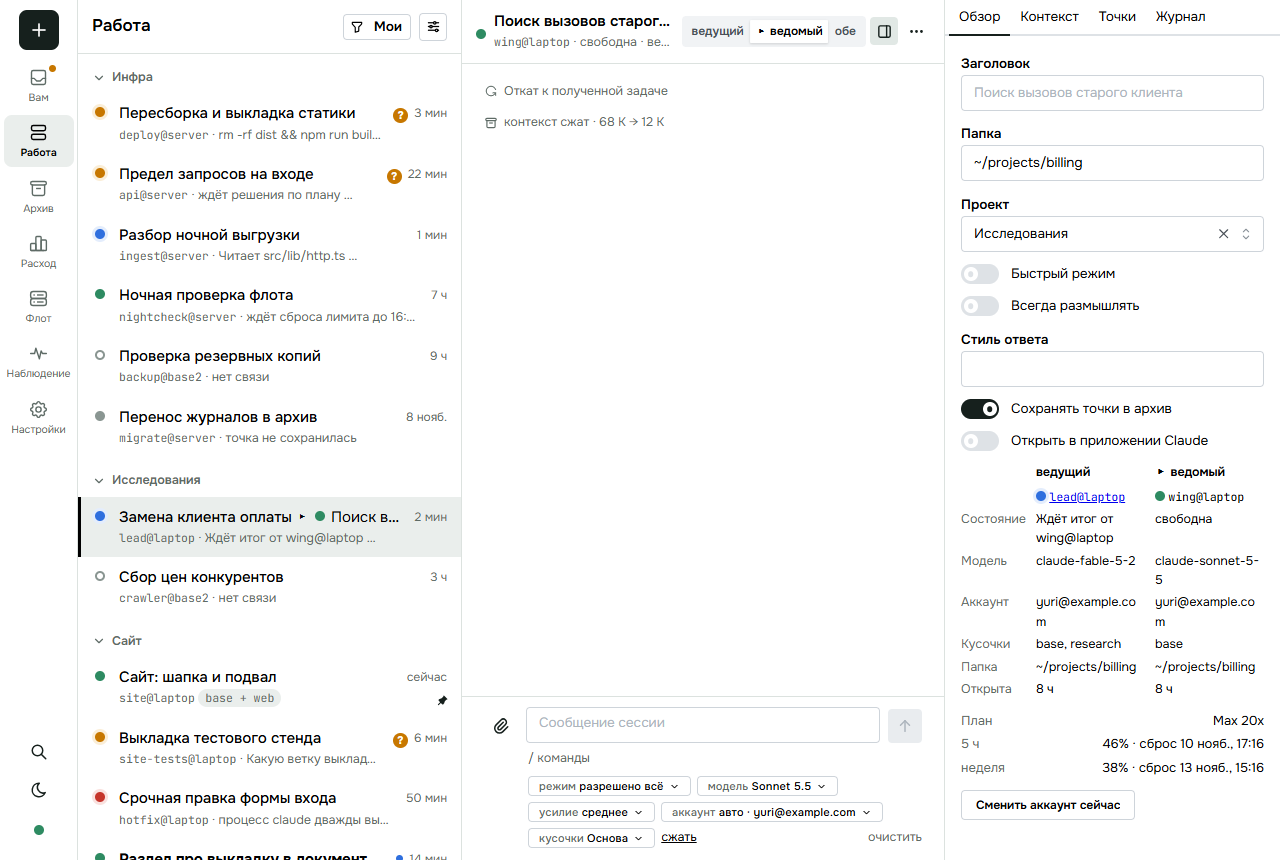
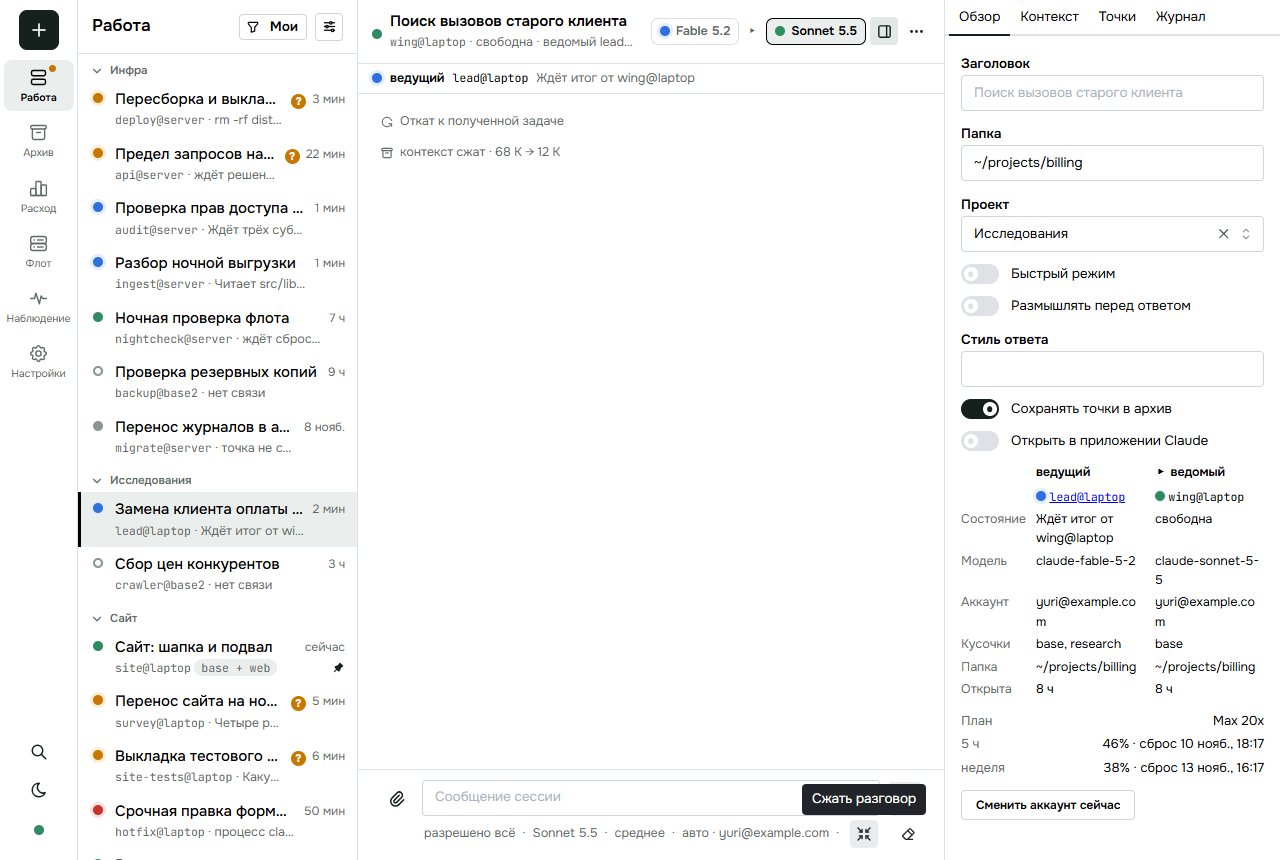
Дизайн «Откат и ведомый»: правки по комментариям к прототипу — вопросы карточками ленты, ряд под полем, «Вам» убран, «Идут сейчас», пара как в v1

diff --git a/docs/designs/v2-rewind/index.html b/docs/designs/v2-rewind/index.html
@@ -4,14 +4,14 @@
 <style>
 :root {
   --bg: #f6f5f1; --card: #ffffff; --fg: #1c211f; --muted: #66706b; --line: #d9d8d0; --soft: #eceae3;
-  --accent: #1f7a63; --accent-soft: #dcefe8; --new: #b8590f; --new-soft: #fbe9d7; --bad: #b3362b; --bad-soft: #f7e1de; --code: #f0eee7;
+  --accent: #1f7a63; --accent-soft: #dcefe8; --new: #b8590f; --new-soft: #fbe9d7; --bad: #b3362b; --bad-soft: #f7e1de; --code: #f0eee7; --chg: #fff3b0;
 }
 @media (prefers-color-scheme: dark) { :root:not([data-theme="light"]) {
   --bg: #151917; --card: #1d2320; --fg: #e8ece9; --muted: #98a39d; --line: #343c38; --soft: #252c28;
-  --accent: #5fc3a6; --accent-soft: #1d3a31; --new: #f0a25c; --new-soft: #40291a; --bad: #ef8a80; --bad-soft: #43221f; --code: #232a26; color-scheme: dark } }
+  --accent: #5fc3a6; --accent-soft: #1d3a31; --new: #f0a25c; --new-soft: #40291a; --bad: #ef8a80; --bad-soft: #43221f; --code: #232a26; --chg: #4a4416; color-scheme: dark } }
 :root[data-theme="dark"] {
   --bg: #151917; --card: #1d2320; --fg: #e8ece9; --muted: #98a39d; --line: #343c38; --soft: #252c28;
-  --accent: #5fc3a6; --accent-soft: #1d3a31; --new: #f0a25c; --new-soft: #40291a; --bad: #ef8a80; --bad-soft: #43221f; --code: #232a26; color-scheme: dark }
+  --accent: #5fc3a6; --accent-soft: #1d3a31; --new: #f0a25c; --new-soft: #40291a; --bad: #ef8a80; --bad-soft: #43221f; --code: #232a26; --chg: #4a4416; color-scheme: dark }
 body { background: var(--bg); color: var(--fg); font: 15px/1.5 Inter, system-ui, sans-serif; padding-left: max(16px, env(safe-area-inset-left, 0px)); padding-right: max(16px, env(safe-area-inset-right, 0px)); padding-block: 28px 64px; }
 main { max-width: 1040px; margin: 0 auto; display: flex; flex-direction: column; gap: 36px; }
 h1, h2 { font-family: "Space Grotesk", Inter, sans-serif; text-wrap: balance; margin: 0; }
@@ -52,6 +52,9 @@ pre { font: 12.5px/1.45 "JetBrains Mono", monospace; background: var(--code); bo
 .shots figure { margin: 0; }
 .shots img { width: 100%; border: 1px solid var(--line); border-radius: 10px; display: block; }
 .shots figure.ph img { max-width: 260px; }
+.chg { background: var(--chg); border-radius: 6px; box-decoration-break: clone; -webkit-box-decoration-break: clone; }
+figure.chg, .card.chg { outline: 3px solid var(--chg); background: var(--chg); }
+.card.chg { background: var(--card); }
 .shots figcaption { font-size: 12.5px; color: var(--muted); margin-top: 6px; }
 .et { display: grid; grid-template-columns: minmax(0, 1fr) 28px minmax(0, 1fr); gap: 8px; align-items: center; padding: 10px 0; border-top: 1px solid var(--line); }
 .et:first-child { border-top: 0; }
@@ -174,9 +177,19 @@ pre { font: 12.5px/1.45 "JetBrains Mono", monospace; background: var(--code); bo
     <figure><img src="shots/lead-news-1280-dark.png" alt="Лента ведущей: вести «ведомый откачен» и «ведомый сжат»"><figcaption>Вести ведомого в ленте ведущей</figcaption></figure>
     <figure><img src="shots/conversations-1280-light.png" alt="Форма новой сессии: разговоры папки сразу под папкой, занятый — только копией"><figcaption>Разговоры папки — сразу под папкой</figcaption></figure>
     <figure><img src="shots/permission-1280-light.png" alt="Карточка разрешения: правило, путь и пояснение"><figcaption>Карточка разрешения: правило, путь, причина</figcaption></figure>
+    <figure class="chg" data-chg="shot-questions-1280-light"><img src="shots/questions-1280-light.png" alt="Четыре больших вопроса карточками в ленте, внизу полоса «Отвечено 0 из 4»"><figcaption>Вопросы — карточками ленты: прокручиваются вместе с ней, ответ уходит, когда отвечены все</figcaption></figure>
+    <figure class="chg" data-chg="shot-running-1280-light"><img src="shots/running-1280-light.png" alt="Блок «Идут сейчас» над полем ввода: три субагента и фоновая команда, первый раскрыт до шагов"><figcaption>«Идут сейчас»: субагенты и фоновые задачи; шаги раскрываются на месте</figcaption></figure>
+    <figure class="chg" data-chg="shot-composer-row-1280-light"><img src="shots/composer-row-1280-light.png" alt="Ряд под полем ввода: значения через точку, справа значки сжать, ведомый, очистить"><figcaption>Ряд под полем — одна строка: значения без ярлыков, действия значками</figcaption></figure>
+    <figure class="chg" data-chg="shot-pair-pick-1280-light"><img src="shots/pair-pick-1280-light.png" alt="Шапка пары: два участника с лампой и моделью, стрелка между ними; под шапкой строка ведомого"><figcaption>Пара как в первой версии: участники в шапке, скрытая сторона строкой</figcaption></figure>
+    <figure class="chg" data-chg="shot-pair-both-1280-light"><img src="shots/pair-both-1280-light.png" alt="Обе стороны пары рядом"><figcaption>Стрелка между участниками — обе стороны рядом</figcaption></figure>
+    <figure class="chg" data-chg="shot-work-1280-light"><img src="shots/work-1280-light.png" alt="«Работа»: узкий список с низкими заголовками групп, открыта последняя сессия"><figcaption>«Работа»: список 280 px, открыта последняя сессия; раздела «Вам» нет</figcaption></figure>
+    <figure class="chg" data-chg="shot-new-name-1280-light"><img src="shots/new-name-1280-light.png" alt="Форма новой сессии: имя первым полем"><figcaption>Имя — первое поле новой сессии</figcaption></figure>
     <figure class="ph"><img src="shots/rewind-390-dark.png" alt="Шаг отката на телефоне, тёмная тема"><figcaption>Шаг отката на телефоне</figcaption></figure>
     <figure class="ph"><img src="shots/clear-390-light.png" alt="Подтверждение очистки на телефоне"><figcaption>«Очистить» — страница подтверждения</figcaption></figure>
     <figure class="ph"><img src="shots/conversations-390-dark.png" alt="Список разговоров на телефоне"><figcaption>Разговоры папки на телефоне</figcaption></figure>
+    <figure class="ph chg" data-chg="shot-questions-390-light"><img src="shots/questions-390-light.png" alt="Вопросы карточками на телефоне"><figcaption>Вопросы на телефоне</figcaption></figure>
+    <figure class="ph chg" data-chg="shot-running-390-dark"><img src="shots/running-390-dark.png" alt="«Идут сейчас» на телефоне"><figcaption>«Идут сейчас» на телефоне</figcaption></figure>
+    <figure class="ph chg" data-chg="shot-composer-row-390-light"><img src="shots/composer-row-390-light.png" alt="Ряд под полем ввода на телефоне"><figcaption>Ряд под полем на телефоне — одна строка</figcaption></figure>
   </div>
 </section>
 
@@ -206,15 +219,9 @@ pre { font: 12.5px/1.45 "JetBrains Mono", monospace; background: var(--code); bo
   </div>
 </section>
 
-<section id="b-forks" data-block>
-  <h2>Развилки вам</h2>
-  <div class="card"><b>Раздел «Вам» повторяет группу «Ждут вас» в «Работе»</b>
-    <div class="fork" style="margin-top:10px"><div class="rec"><small>рекомендую</small>Убрать «Вам»; первым открывается «Работа», группа «Ждут вас» — сверху</div><div><small>иначе</small>Оставить оба</div><div><small>не скажете иначе</small>Убираю при «делай»</div></div></div>
-</section>
-
 <section id="b-gate" data-block>
   <h2>Гейт</h2>
-  <div class="card gate">Гейт (33 строки реестров): дубликаты ответственности 2 → 0 («Вам» и «Ждут вас» — по рекомендованной развилке; вести ведущей слали бы ядро Host и модуль разговора → одно место, ядро) · состояния 0 → 0 · логики 0 → 0 · смысла 0 → 0 · других 1 → 0 (два входа к откату файлов → один запрос) · лишние коммуникации 2 → 0 (номер разговора человек искал на машине сам → список; вопрос ведомого самой ведущей шёл бы ей дважды — вопросом и вестью «ждёт человека» → только вопросом) · циклы 0 → 0
+  <div class="card gate">Гейт (33 строки реестров): дубликаты ответственности 2 → 0 («Вам» и «Ждут вас» — <span class="chg" data-chg="gate-inbox">по слову пользователя: «Вам» вырезан</span>; вести ведущей слали бы ядро Host и модуль разговора → одно место, ядро) · состояния 0 → 0 · логики 0 → 0 · смысла 0 → 0 · других 1 → 0 (два входа к откату файлов → один запрос) · лишние коммуникации 2 → 0 (номер разговора человек искал на машине сам → список; вопрос ведомого самой ведущей шёл бы ей дважды — вопросом и вестью «ждёт человека» → только вопросом) · циклы 0 → 0
 Числа: запросы +2 (session.rewind — ядро Host; machine.conversations — модуль машины) · методы session.call −1 (rewindFiles) · инструменты модели +1 (session.call с закрытым списком методов) · поля вопроса +3 · имена договора +4 (2 запроса, 3 поля, −1 метод) · кадры 0 новых (conversation_reset страница уже знает) · вести ведущей 4 → 7 · каналы 0 новых · секреты 0 · настройки 0 · ожидаемые ветки сбоев 0 новых · эталоны 8 → 11
 Работа: большая — меняет договор сессии
 Сделано:
@@ -227,6 +234,7 @@ pre { font: 12.5px/1.45 "JetBrains Mono", monospace; background: var(--code); bo
   8. Юнификация · инструменты ведущей · прервать, сжать, перечитать инструменты, серверы MCP, занятость контекста — уже методы session.call: он получает описание для модели; session.compact, session.set и session.mcp не вводятся · выигрыш: новых запросов 3 → 0
   9. Удаление раньше добавления · пара · один вход «+ ведомый» под полем ввода и «убрать ведомого» на его месте; кнопки пары в «Обзоре» уходят · входов 2 → 1
   7. Простые коммуникации · обновление ленты · событие conversation_reset вместо перечитывания по ответу · выигрыш: одинаково у всех зрителей
+<span class="chg" data-chg="gate-words">Слово пользователя 10 нояб. по прототипу: «весь функционал вкладки „Вам“ абсолютно бесполезен, начисто вырежи всё» — раздела, адреса, клавиши и кода нет, ждущее видно лампой на «Работе»; вопросы — карточками чата, а не блоком над вводом; ряд под полем ввода — одна строка; «Работа» сразу открывает последнюю сессию; ширина списка тянется и помнится устройством; пара — как в первой версии; имя — первое поле новой сессии; нужен блок работающих агентов</span>
 Слово пользователя 10 нояб.: откат «только файлы» убрать — в шаге два варианта, «Только разговор» и «Разговор и файлы»; после отката то же окно: та же сессия, тот же адрес, лента обрезана на месте
 Уже открыто ведущей инструментами и не меняется: session.update (модель, усилие, режим, быстрый, размышления, кусочки), session.stop, session.start, session.remove, answer, session.history
 Проверено и оставлено: откат к точке архива и откат к сообщению — два разных отката (между машинами по архиву / на месте средствами Claude), второй — слово пользователя
@@ -240,9 +248,8 @@ pre { font: 12.5px/1.45 "JetBrains Mono", monospace; background: var(--code); bo
     <div class="card"><b>Договор</b><div class="done">Два запроса с описанием для модели, описание для модели у session.call с закрытым списком методов, три поля вопроса, слова в conversation_reset; rewindFiles уходит из session.call. <b>Готово:</b> тесты протокола 9 → 10, гейт импортов чист.</div></div>
     <div class="card"><b>Host · сначала живая проверка</b><div class="done">После отката разговора копией остаются ли снимки файлов для отката к более ранним сообщениям: копия по описанию SDK начинается без них. Не остаются — обрезка через resumeSessionAt вместо копии. Заодно — копия на работающей сессии. <b>Готово:</b> два отката подряд с файлами на одной сессии: файл вернулся 2 раза из 2.</div></div>
     <div class="card"><b>Host</b><div class="done">Откат (показ, прерывание хода, файлы, копия, перезапуск, conversation_reset со словами), три новые вести, разговоры папки, поля вопроса, session.call инструментом ведущей. <b>Готово:</b> тесты Host 77 → 88 — одиннадцать эталонов выше.</div></div>
-    <div class="card"><b>Страница</b><div class="done">Прототип переносится как есть: шаг отката, ряд под полем ввода, список разговоров, карточка разрешения; вкладка отката файлов и кнопки пары уходят из инспектора. <b>Готово:</b> тесты страницы 212 → 218, живые флоу в Chrome 25 → 29.</div></div>
+    <div class="card chg" data-chg="order-page"><b>Страница</b><div class="done">Прототип переносится как есть. Откат и ведомый: шаг отката, список разговоров, карточка разрешения; вкладка отката файлов и кнопки пары уходят из инспектора. По комментариям к прототипу: вопросы сессии — карточками в конце ленты, вопрос на карточку, лента встаёт на первый неотвеченный · кнопки «/ команды» нет · ряд под полем — одна строка значений без ярлыков, «сжать», «ведомый», «очистить» значками · раздел «Вам» вырезан, лампа «ждут вас» на «Работе» · «Работа» открывает последнюю сессию · список 280 px, низкие заголовки групп, граница тянется мышью и пальцем, ширину помнит устройство · блок «Идут сейчас» вместо блока фона · участники пары в шапке с лампой и моделью, скрытая сторона строкой · имя — первое поле формы. <b>Готово:</b> тесты страницы 212 → 214, сценарий прототипа в Chrome 26 → 56 шагов из 56 на 1280 и 390 в двух темах, живые флоу 25 → 36.</div></div>
     <div class="card"><b>Тестовый флот</b><div class="done">Выкладка и живой прогон на Windows и WSL. <b>Готово:</b> записей в разговоре 6 → 2, файл вернулся, ведущая получила 3 вести из 3.</div></div>
-    <div class="card"><b>«Вам» — по развилке</b><div class="done"><b>Готово:</b> разделов 7 → 6, первым открывается «Работа».</div></div>
   </div>
 </section>
 </main>
